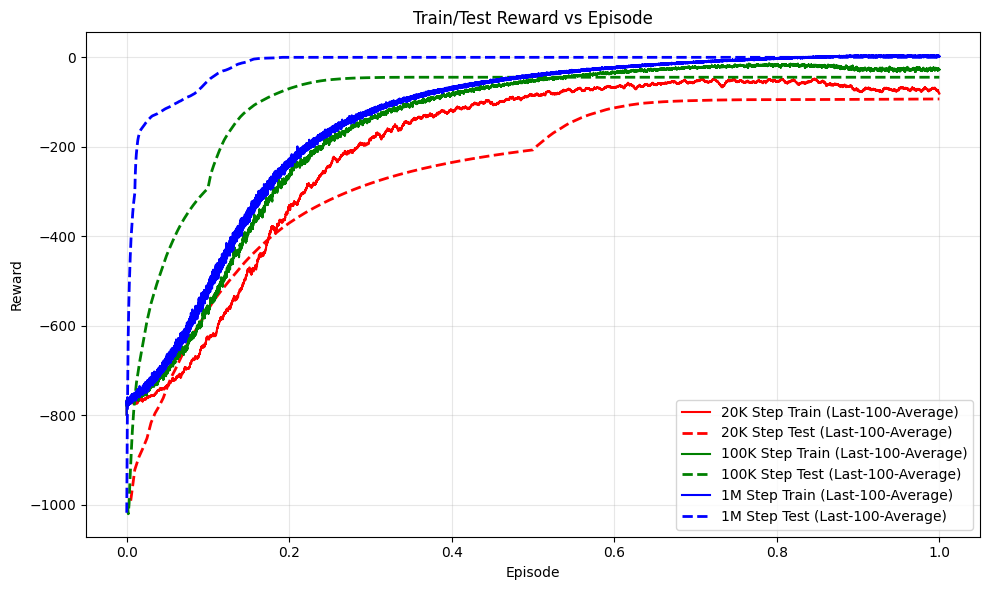
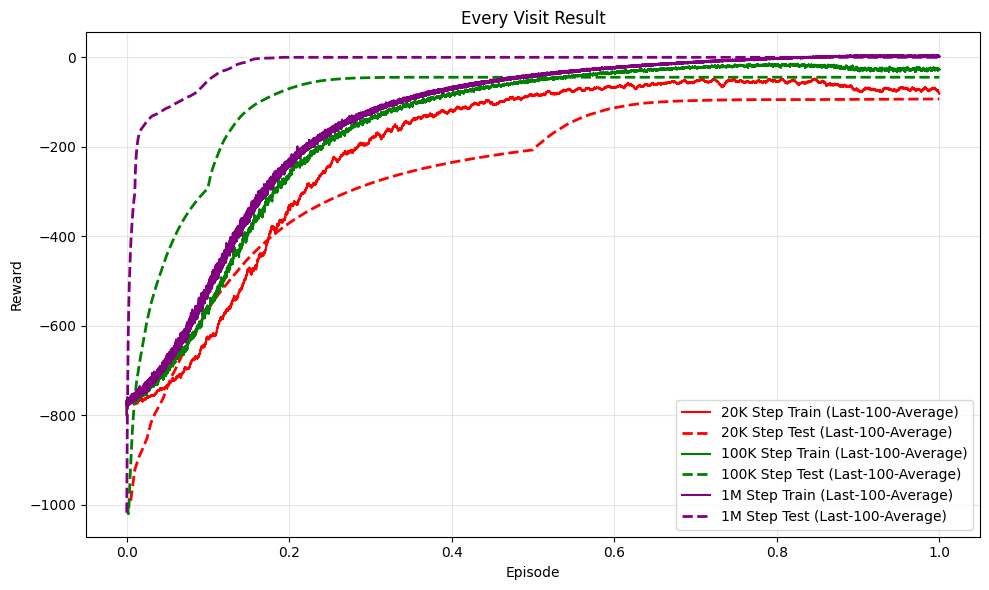
Add Monte_Carlo first visit

diff --git a/Basic_Algorithms/Monte-Carlo/README.md b/Basic_Algorithms/Monte-Carlo/README.md
@@ -83,13 +83,21 @@ You can tune hyperparameter to see the impact of each hyperparameter. In my opin
 
 ### Performance Comparison
 
-Below are the evaluation metrics (mean reward, standard deviation, minimum, and maximum rewards across the 100 test seeds) after training for different numbers of episodes:
+Below are the evaluation metrics (mean reward, standard deviation, minimum, and maximum rewards across the 100 test seeds) after training for different numbers of episodes (`every visit`):
 
 | Episodes | Mean Reward | Std | Min Reward | Max Reward |
 | :--- | :---: | :---: | :---: | :---: |
 | **20K** | $-89.83$ | $17.05$ | $-113.99$ | $-65.95$ |
 | **100K** | $-44.09$ | $21.19$ | $-88.62$ | $-22.37$ |
 | **1M** | $2.43$ | $8.61$ | $-14.10$ | $8.62$ |
+
+And there are result of `first visit version`:
+
+| Episodes | Mean Reward | Std | Min Reward | Max Reward |
+| :--- | :---: | :---: | :---: | :---: |
+| **20K** | $-23.18$ | $6.12$ | $-36.80$ | $-14.17$ |
+| **100K** | $-12.96$ | $6.70$ | $-24.24$ | $0.39$ |
+| **1M** | $-8.57$ | $2.92$ | $-13.92$ | $-3.67$ |
 
 Explain:
   * Mean Reward: Average of 10 runs (each run is the average of 100 episode seeds)
@@ -104,7 +112,8 @@ As observed, performance improves dramatically as the number of episodes increas
 Below is a chart showing the average last 100 trains and test episode rewards when running 20K, 100K, and 1M steps.
 
 <div align="center">
-<img src="demo\training_chart.png" width="1000" alt="training chart" />
+<img src="demo\training_chart.png" width="500" alt="training chart" />
+<img src="demo\training_chart_first_visit.png" width="500" alt="training chart first visit" />
 </div>
 
 ---
@@ -115,4 +124,5 @@ Here is a demonstration of the trained Monte Carlo agent interacting with the `T
 
 <div align="center">
 <img src="demo\MC-Taxi-v4-1M-run1.gif" width="400" alt="demo" />
+<img src="demo\MC-FV-Taxi-v4-1M-run1.gif" width="400" alt="demo" />
 </div>